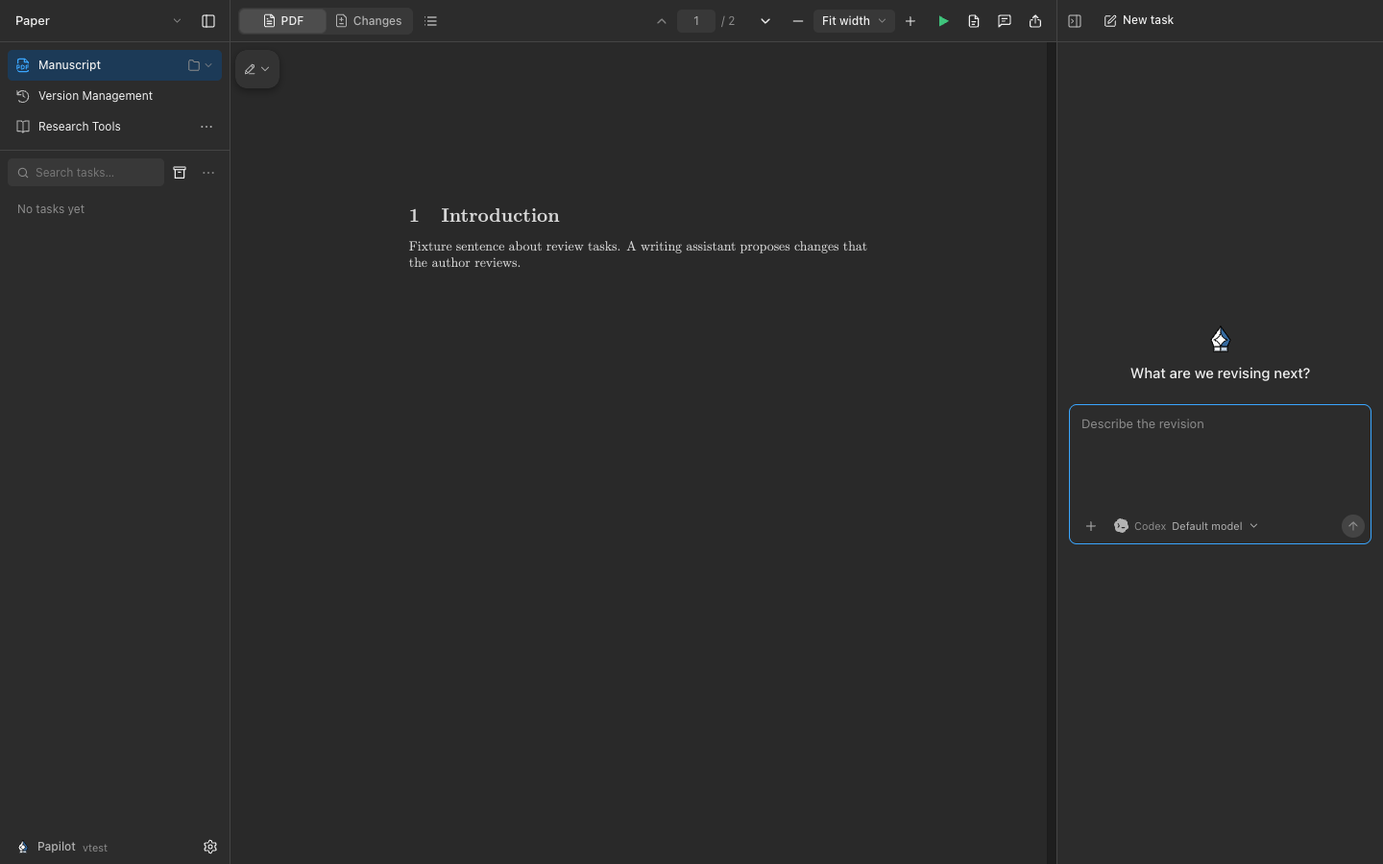
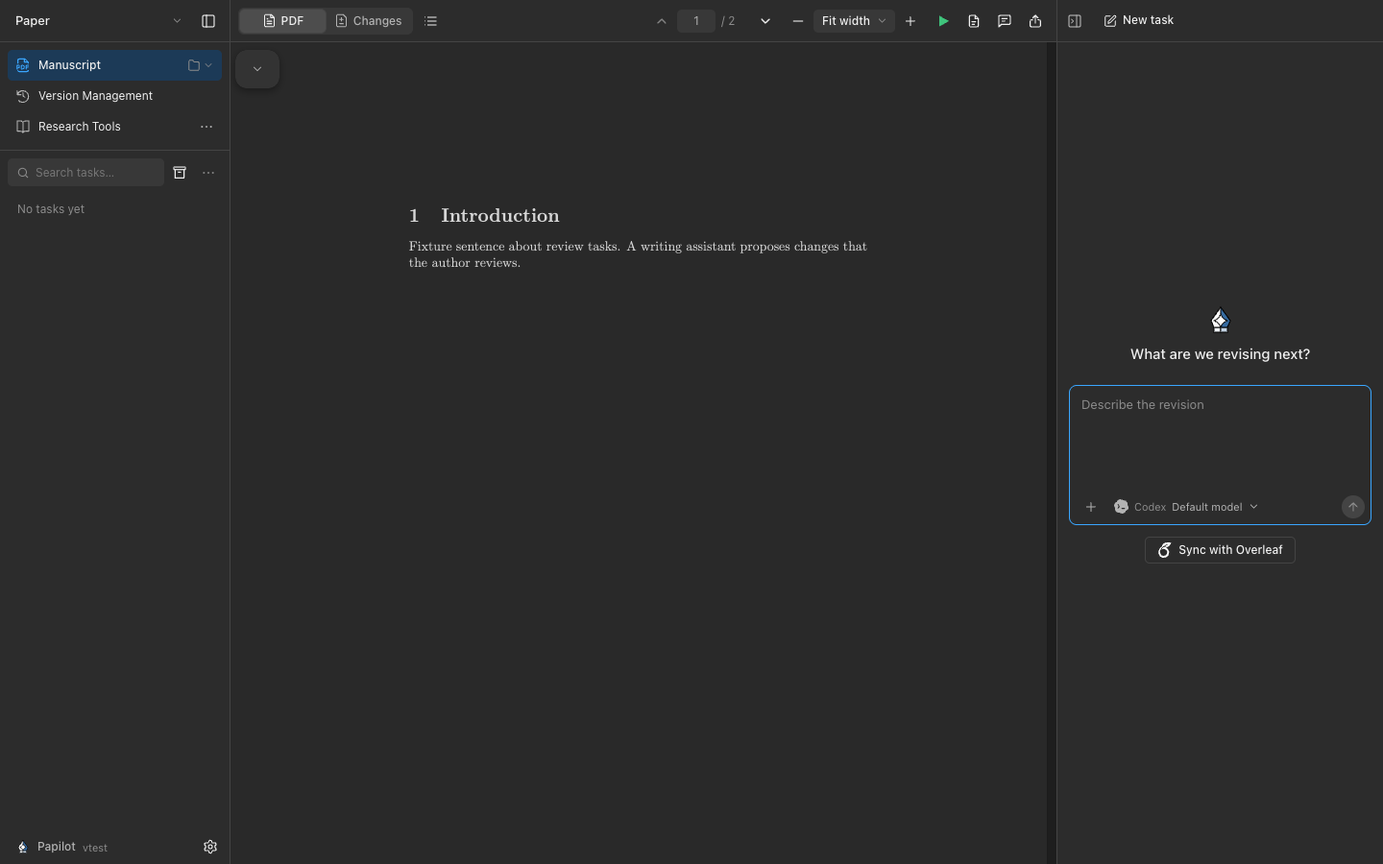
Expose Overleaf sync on the opening page

Changed region(s): [[0.7812, 0.56, 0.9375, 0.6533], [0.8125, 0.3422, 0.9375, 0.4356], [0.7812, 0.4667, 0.875, 0.4978]]

diff --git a/src/web/import-dialog.tsx b/src/web/import-dialog.tsx
@@ -11,7 +11,6 @@ import { OverleafSignIn, overleafOrigin } from './overleaf.tsx';
 import './import-dialog.css';
 
 type Api = <T = any>(route: string, body?: unknown, signal?: AbortSignal) => Promise<T>;
-const memoryKey = 'papilot:paper-import';
 const clock = (ms: number) => { const seconds = Math.max(0, Math.floor(ms / 1000)); return `${Math.floor(seconds / 60)}:${String(seconds % 60).padStart(2, '0')}`; };
 // What a long compilation is doing, so it never looks stuck: latexmk's step,
 // the LaTeX pass with the pages typeset in it, and the time since it started.
@@ -39,7 +38,9 @@ function BuildStatus({ draft }: { draft: PaperImport }) {
     </div>
   </div>;
 }
-export function ImportPanel({ api, agent, canRepair, onChooseFolder, onDone, onClose, onBusyChange }: { api: Api; agent: AgentId; canRepair: boolean; onChooseFolder?: () => Promise<void>; onDone: (project: Project) => Promise<void>; onClose: () => void; onBusyChange: (busy: boolean) => void }) {
+export function ImportPanel({ api, agent, canRepair, source, onChooseFolder, onDone, onClose, onBusyChange }: { api: Api; agent: AgentId; canRepair: boolean; source?: 'overleaf'; onChooseFolder?: () => Promise<void>; onDone: (project: Project) => Promise<void>; onClose: () => void; onBusyChange: (busy: boolean) => void }) {
+  const defaultMemoryKey = source === 'overleaf' ? 'papilot:overleaf-import' : 'papilot:paper-import';
+  const memoryKey = useRef(defaultMemoryKey);
   const dialog = useRef<HTMLDivElement>(null), folder = useRef<HTMLInputElement>(null), zip = useRef<HTMLInputElement>(null), pending = useRef(false);
   const linkInput = useRef<HTMLInputElement>(null), linkId = useId();
   const [link, setLink] = useState(''), [fromLink, setFromLink] = useState(false);
@@ -47,18 +48,20 @@ export function ImportPanel({ api, agent, canRepair, onChooseFolder, onDone, onC
   // wants only a copy; syncing needs the author's Overleaf sign-in.
   // A project or invitation link syncs by default; a read-only view link
   // makes a copy, which needs no sign-in.
-  const [keepSynced, setKeepSynced] = useState<boolean | null>(null), [signIn, setSignIn] = useState<string | null>(null);
+  const [keepSynced, setKeepSynced] = useState<boolean | null>(source === 'overleaf' ? true : null), [signIn, setSignIn] = useState<string | null>(null);
   const syncs = (url: string) => Boolean(overleafOrigin(url)) && (keepSynced ?? /\/project\/[a-f0-9]{24}/i.test(url));
   const overleafLink = Boolean(overleafOrigin(link));
   const [draft, setDraft] = useState<PaperImport | null>(null), [form, setForm] = useState({ name: '', path: '', main: '', engine: 'pdflatex' });
   const [busy, setBusy] = useState(false), [error, setError] = useState(''), [dragging, setDragging] = useState(false);
   const working = draft?.phase === 'building' || draft?.phase === 'repairing', locked = busy || working;
-  function receive(value: PaperImport) { setDraft(value); setForm(current => ({ ...current, name: value.name, main: value.main, engine: value.engine })); browserStorage.setItem(memoryKey, value.id); }
+  function receive(value: PaperImport) { setDraft(value); setForm(current => ({ ...current, name: value.name, main: value.main, engine: value.engine })); browserStorage.setItem(memoryKey.current, value.id); }
+  function forgetDraft() { browserStorage.removeItem(memoryKey.current); memoryKey.current = defaultMemoryKey; }
   useEffect(() => {
     folder.current?.setAttribute('webkitdirectory', '');
-    const saved = browserStorage.getItem(memoryKey);
+    if (source !== 'overleaf' && !browserStorage.getItem(memoryKey.current) && browserStorage.getItem('papilot:overleaf-import')) memoryKey.current = 'papilot:overleaf-import';
+    const saved = browserStorage.getItem(memoryKey.current);
     let live = true;
-    if (saved) { setBusy(true); api<PaperImport>('/imports/' + saved).then(value => { if (live) receive(value); }, () => browserStorage.removeItem(memoryKey)).finally(() => { if (live) setBusy(false); }); }
+    if (saved) { setBusy(true); api<PaperImport>('/imports/' + saved).then(value => { if (live) receive(value); }, () => { if (live) forgetDraft(); }).finally(() => { if (live) setBusy(false); }); }
     return () => { live = false; };
   }, []);
   useEffect(() => { onBusyChange(busy); }, [busy, onBusyChange]);
@@ -94,6 +97,7 @@ export function ImportPanel({ api, agent, canRepair, onChooseFolder, onDone, onC
   const upload = (list: File[], archive: boolean) => run(() => uploadFiles(list.map(file => ({ file, path: file.webkitRelativePath || file.name })), archive));
   const openFolder = async (path: string) => start(await api<PaperImport>('/imports', { path }));
   const importLink = (url: string) => run(async () => {
+    if (source === 'overleaf' && !overleafOrigin(url)) throw new Error(t('Paste the link of an Overleaf project.'));
     const sync = syncs(url);
     setSignIn(null);
     try { await start(await api<PaperImport>('/imports', { url: url.trim(), ...(sync ? { sync: true } : {}) })); }
@@ -118,7 +122,7 @@ export function ImportPanel({ api, agent, canRepair, onChooseFolder, onDone, onC
     });
   }
   const build = (repair = false) => run(async () => receive(await api<PaperImport>(`/imports/${draft!.id}/${repair ? 'repair' : 'build'}`, { name: form.name, main: form.main, engine: form.engine, agent })));
-  const finish = () => run(async () => { const project = await api<Project>(`/imports/${draft!.id}/finish`, {}); browserStorage.removeItem(memoryKey); await onDone(project); });
+  const finish = () => run(async () => { const project = await api<Project>(`/imports/${draft!.id}/finish`, {}); forgetDraft(); await onDone(project); });
   const failure = draft?.error || '';
   const preparationFailure = /ENOBUFS|ERR_CHILD_PROCESS_STDIO_MAXBUFFER|Git snapshot export/i.test(failure);
   const hint = preparationFailure ? t('Papilot could not prepare the files for compilation. This is an application error, not a LaTeX error.')
@@ -136,29 +140,29 @@ export function ImportPanel({ api, agent, canRepair, onChooseFolder, onDone, onC
   return <div ref={dialog} className="import-dialog">
       {!draft ? <>
         <section className="import-copy" aria-labelledby={linkId + '-copy'}>
-          <h3 id={linkId + '-copy'}>{t('Import a copy')}</h3>
-          <p>{t('Save a separate copy in Papilot. Your original files stay unchanged.')}</p>
+          <h3 id={linkId + '-copy'}>{source === 'overleaf' ? t('Overleaf') : t('Import a copy')}</h3>
+          {source !== 'overleaf' && <p>{t('Save a separate copy in Papilot. Your original files stay unchanged.')}</p>}
           <form className="import-path import-link" aria-labelledby={linkId + '-label'} onSubmit={event => { event.preventDefault(); void importLink(link); }}>
-            <label id={linkId + '-label'} htmlFor={linkId}>{t('Paper or repository link')}</label>
+            <label id={linkId + '-label'} htmlFor={linkId}>{source === 'overleaf' ? t('Paste the link of an Overleaf project.') : t('Paper or repository link')}</label>
             <div className="import-path-row">
-              <input ref={linkInput} id={linkId} name="url" type="url" inputMode="url" enterKeyHint="go" autoCapitalize="none" autoCorrect="off" spellCheck={false} value={link} required disabled={locked} maxLength={8000} aria-describedby={linkId + '-hint' + (fromLink && error ? ' ' + linkId + '-error' : '')} aria-invalid={fromLink && !!error || undefined} onChange={event => { setLink(event.target.value); if (fromLink) setError(''); }} placeholder={t('Paste a link…')}/>
+              <input ref={linkInput} id={linkId} name="url" type="url" inputMode="url" enterKeyHint="go" autoCapitalize="none" autoCorrect="off" spellCheck={false} value={link} required disabled={locked} maxLength={8000} aria-describedby={linkId + '-hint' + (fromLink && error ? ' ' + linkId + '-error' : '')} aria-invalid={fromLink && !!error || undefined} onChange={event => { setLink(event.target.value); if (fromLink) setError(''); }} placeholder={source === 'overleaf' ? 'https://www.overleaf.com/project/…' : t('Paste a link…')}/>
               <button type="submit" className="button primary compact" aria-label={t('Import link')} disabled={locked}><Icon name="arrowRight" size={15}/>{t('Import')}</button>
             </div>
-            <div className="import-link-hint" id={linkId + '-hint'}><span className="import-source"><BrandIcon name="arxiv" size={16}/><span>arXiv</span></span><span className="import-source"><BrandIcon name="overleaf" size={16}/><span>Overleaf</span></span><span className="import-source"><BrandIcon name="github" size={16}/><span>GitHub</span></span></div>
-            {overleafLink && <label className="import-sync"><input type="checkbox" role="switch" className="switch" checked={syncs(link)} disabled={locked} onChange={event => setKeepSynced(event.target.checked)}/><span>{t('Keep in sync with Overleaf')}</span></label>}
+            <div className="import-link-hint" id={linkId + '-hint'}>{source !== 'overleaf' && <span className="import-source"><BrandIcon name="arxiv" size={16}/><span>arXiv</span></span>}<span className="import-source"><BrandIcon name="overleaf" size={16}/><span>Overleaf</span></span>{source !== 'overleaf' && <span className="import-source"><BrandIcon name="github" size={16}/><span>GitHub</span></span>}</div>
+            {(overleafLink || source === 'overleaf') && <label className="import-sync"><input type="checkbox" role="switch" className="switch" checked={overleafLink ? syncs(link) : Boolean(keepSynced)} disabled={locked} onChange={event => setKeepSynced(event.target.checked)}/><span>{t('Keep in sync with Overleaf')}</span></label>}
           </form>
           {signIn && syncs(link) && <OverleafSignIn api={api} origin={signIn} onSignedIn={() => { setSignIn(null); void importLink(link); }}/>}
-          <div className={'import-drop' + (dragging ? ' dragging' : '')} onDragOver={event => { event.preventDefault(); setDragging(true); }} onDragLeave={event => { if (!event.currentTarget.contains(event.relatedTarget as Node | null)) setDragging(false); }} onDrop={event => { event.preventDefault(); setDragging(false); if (!locked) drop(event.dataTransfer); }}>
+          {source !== 'overleaf' && <div className={'import-drop' + (dragging ? ' dragging' : '')} onDragOver={event => { event.preventDefault(); setDragging(true); }} onDragLeave={event => { if (!event.currentTarget.contains(event.relatedTarget as Node | null)) setDragging(false); }} onDrop={event => { event.preventDefault(); setDragging(false); if (!locked) drop(event.dataTransfer); }}>
             <span className="import-drop-hint"><Icon name="folder" size={15}/>{t('Drop a source ZIP or folder')}</span>
             <div className="import-options">
               <button type="button" className="button secondary compact" aria-label={t('Import ZIP')} disabled={locked} onClick={() => zip.current?.click()}><Icon name="archive" size={15}/>{t('Import ZIP')}</button>
               <button type="button" className="button secondary compact" disabled={locked} onClick={() => folder.current?.click()}><Icon name="folder" size={15}/>{t('Import folder')}</button>
             </div>
-          </div>
+          </div>}
           <input hidden {...{ webkitdirectory: '' }} ref={folder} type="file" multiple aria-label={t('Choose folder')} onChange={event => { void upload(Array.from(event.target.files || []), false); event.target.value = ''; }}/>
           <input hidden ref={zip} type="file" accept=".zip,application/zip" aria-label={t('Import ZIP')} onChange={event => { void upload(Array.from(event.target.files || []), true); event.target.value = ''; }}/>
         </section>
-        <section className="import-original" aria-labelledby={linkId + '-original'}>
+        {source !== 'overleaf' && <section className="import-original" aria-labelledby={linkId + '-original'}>
           <h3 id={linkId + '-original'}>{t('Open existing folder')}</h3>
           <p id={linkId + '-original-hint'}>{t('Work in the original folder. Changes are saved directly to your files.')}</p>
           {onChooseFolder ? <button type="button" data-choose-folder className="button secondary compact" aria-describedby={linkId + '-original-hint'} disabled={locked} onClick={() => void chooseFolder()}><Icon name="folder" size={15}/>{t('Choose folder…')}</button>
@@ -168,7 +172,7 @@ export function ImportPanel({ api, agent, canRepair, onChooseFolder, onDone, onC
                 <button type="submit" className={'button compact ' + (form.path.trim() ? 'primary' : 'secondary')} disabled={locked}>{t('Open')}</button>
               </FolderField>
             </form>}
-        </section>
+        </section>}
         {busy && <p className="import-reading" role="status"><span className="spinner"/>{fromLink ? t('Downloading paper source…') : t('Reading paper files…')}</p>}
         {error && <p id={linkId + '-error'} className="inline-error" role="alert">{error}</p>}
       </> : <>
@@ -183,7 +187,7 @@ export function ImportPanel({ api, agent, canRepair, onChooseFolder, onDone, onC
             <span className="import-location-label">{t('Saved folder')}</span>
             <code className="import-location-path"><span className="paper-location-parent">{draft.path.slice(0, folderAt)}</span><span className="paper-location-name">{draft.path.slice(folderAt)}</span></code>
           </div>
-          {!working && <button type="button" className="button ghost compact" disabled={busy} onClick={() => { browserStorage.removeItem(memoryKey); setDraft(null); setError(''); }}>{t('Choose different files')}</button>}
+          {!working && <button type="button" className="button ghost compact" disabled={busy} onClick={() => { forgetDraft(); setDraft(null); setError(''); }}>{t('Choose different files')}</button>}
         </div>
         <form onSubmit={event => { event.preventDefault(); void build(); }}>
           <label>{t('Paper name')}<input required maxLength={120} value={form.name} disabled={locked} onChange={event => setForm({ ...form, name: event.target.value })}/></label>

diff --git a/src/web/main.tsx b/src/web/main.tsx
@@ -39,6 +39,7 @@ import { BulkTaskDialog, type BulkTaskAction } from './bulk-task-dialog.tsx';
 import { restartDraftText } from './restart-draft.ts';
 import { ActionMenu } from './action-menu.tsx';
 import { Icon } from './icons.tsx';
+import { BrandIcon } from './brand-icon.tsx';
 import { toolIcon, toolNote, toolSentence, toolSummary } from './tool-calls.ts';
 import { ContextMeter } from './context-meter.tsx';
 import { ChangeSummary, FileDiffs } from './file-changes.tsx';
@@ -1187,7 +1188,7 @@ function App() {
   const sidebarRef = useRef<HTMLElement>(null);
   const [deleteTarget, setDeleteTarget] = useState<Task | null>(null);
   const [bulkTarget, setBulkTarget] = useState<BulkTaskAction | null>(null);
-  const [modal, setModal] = useState<'project' | 'create' | null>(null);
+  const [modal, setModal] = useState<'project' | 'create' | 'overleaf' | null>(null);
   const [createPreset, setCreatePreset] = useState<{ id: string; version: string } | null>(null);
   const [openingFolder, setOpeningFolder] = useState(false), [mainChoice, setMainChoice] = useState<{ path: string; name: string; candidates: string[] } | null>(null);
   const folderRequest = useRef(false);
@@ -1484,6 +1485,7 @@ function App() {
   // open the original folder in place through the system picker.
   function createProject() { if (isPlayground) { requestPlaygroundDownload(); return; } setCreatePreset(null); setModal('create'); }
   function importProject() { if (isPlayground) { requestPlaygroundDownload(); return; } setCreatePreset(null); setModal('project'); }
+  function syncOverleaf() { if (project) setOverleafOpen(true); else { setCreatePreset(null); setModal('overleaf'); } }
   async function openFolder(folder?: string, main?: string) {
     if (folderRequest.current) return;
     folderRequest.current = true;
@@ -2117,6 +2119,7 @@ function App() {
         </div>
     {manuscriptView === 'pdf' && <div className="workspace-nav-end">{manuscriptTools}{manuscriptShare}</div>}
   </>;
+  const overleafEntry = !isPlayground && gitAvailable && <button type="button" className="button secondary" onClick={syncOverleaf}><BrandIcon name="overleaf" size={16}/>{overleafSync ? t('Overleaf sync…') : t('Sync with Overleaf')}</button>;
   const newTaskPanel = (attachments: React.ReactNode) => <section className={'new-task-panel' + (noteSelection.selected.length ? ' has-notes' : '')} aria-label={t('New task')}>
     <div className="new-task-start">
     {!noteSelection.selected.length && <div className="new-task-welcome"><img src={logo} alt=""/><h2>{t('What are we revising next?')}</h2></div>}
@@ -2131,6 +2134,7 @@ function App() {
       </div>}
       action={<button className="send-button" type="submit" aria-label={t('Start task')} title={missingGroupDirections ? t('Add instructions to the selected color groups above.') : t('Start task (Enter)')} disabled={missingAgent || creating || reviewNoteBusy || noteEditing || history.busy || (newSkill?.output !== 'annotations' && (newFiles.blocked || marking > 0 || missingGroupDirections)) || (!newDraft.trim() && !newSkill && !newFiles.files.length && !noteSelection.selected.some(actionable) && !Object.keys(groupDirections).length)} aria-busy={creating}>{creating ? <span className="spinner light"/> : <Icon name="arrowUp" size={18}/>}</button>}/>
     {createError && <p className="inline-error" role="alert">{createError}</p>}
+    {!noteSelection.selected.length && overleafEntry && <div className="home-integrations">{overleafEntry}</div>}
     {PlaygroundPresets && <Suspense fallback={null}><PlaygroundPresets selected={noteSelection.selected} open={id => openPreparedTask(id)} disabled={creating}/></Suspense>}
     {runtimes[agentChoice]?.usage && <UsageSummary agent={agentLabel(agentChoice)} usage={runtimes[agentChoice]!.usage!}/>}
     </div>
@@ -2231,7 +2235,7 @@ function App() {
           <ReferencesPanel key={project.id} place={'references:' + project.id} data={bibliography} onInvestigate={draftInvestigation}/>
         </section>
       : !state ? <div className="home"><div className="home-inner"><div className="home-mark"><span className="spinner"/></div><h1>{t('Opening your workspace')}</h1><p className="home-copy" role="status">{connectionError || t('Connecting to your papers and tasks…')}</p>{connectionError && <button className="button secondary" onClick={() => void refresh(true)}>{t('Retry connection')}</button>}</div></div>
-      : <div className="home"><div className="home-inner"><img className="home-logo" src={logo} alt=""/><h1>{t('Add your first paper')}</h1><div className="home-paper-actions"><button className="button primary" onClick={createProject}><Icon name="plus" size={16}/>{t('New paper')}</button><button className="button secondary" onClick={importProject}><Icon name="download" size={16}/>{t('Import or open')}</button></div></div></div>}
+      : <div className="home"><div className="home-inner"><img className="home-logo" src={logo} alt=""/><h1>{t('Add your first paper')}</h1><div className="home-paper-actions"><button className="button primary" onClick={createProject}><Icon name="plus" size={16}/>{t('New paper')}</button><button className="button secondary" onClick={importProject}><Icon name="download" size={16}/>{t('Import or open')}</button></div>{overleafEntry && <div className="home-integrations">{overleafEntry}</div>}</div></div>}
     </main>
     {error && !modal && <div role="alert" className="toast"><Icon name="alert" size={16}/><span>{error}</span><button className="icon-button" aria-label={t('Dismiss error')} onClick={() => setError('')}><Icon name="close" size={14}/></button></div>}
     {settings && <SettingsDialog workflow={isPlayground ? undefined : { enabled: runtimes.collaboration?.hidden === false, online, runtimes, load: () => api<CollaborationSettingsState>('/collaboration'), save: async change => { const result = await api<CollaborationSettingsState>('/collaboration', change); await refresh(true); return result; } }} requirements={isPlayground ? undefined : { state: requirements, online }} modelDefaults={{ agents: offered.map(id => ({ value: id, label: agentLabel(id), runtime: runtimes[id] })), agent: agentChoice, model: chosenModel, effort: agent.effort, onSelect: chooseModel, onEffort: effort => remember({ effort }) }} updates={!isPlayground ? api : undefined} overleaf={!isPlayground ? { api, state: state?.overleaf } : undefined} initialPage={settings} theme={theme.theme} onTheme={theme.setTheme} resolved={theme.resolved} appearance={theme.appearance} onAppearance={theme.setAppearance} onClose={() => setSettings(false)} diagnostics={!isPlayground ? { online, runtimes, project, check: checkDiagnostics, latex: detectLatexInstallation, reconnect: async () => { await api('/reconnect', {}); await refresh(true); }, writer: (route: string, body?: unknown) => api('/writer' + route, body) } : undefined} skills={!isPlayground ? { project, api, onChanged: () => setSkillsRevision(value => value + 1) } : undefined}/>}
@@ -2258,7 +2262,7 @@ function App() {
     }}/>}
     {mainChoice && <MainFileDialog key={mainChoice.path} name={mainChoice.name} candidates={mainChoice.candidates} open={main => openFolder(mainChoice.path, main)} onClose={() => setMainChoice(null)}/>}
     {openingFolder && !mainChoice && <div role="status" className="toast toast-status"><span className="spinner"/><span>{t('Reading paper files…')}</span></div>}
-    {(modal === 'create' || modal === 'project') && <NewPaperDialog key={createPreset ? createPreset.id + '@' + createPreset.version : 'new'} initialTab={modal === 'project' ? 'import' : 'blank'} preset={createPreset ?? undefined} api={api} agent={agentChoice} canRepair={Object.values(runtimes).some(runtime => runtime?.connected && runtime.authenticated)} onChooseFolder={nativeFolders ? async () => { const path = await chooseDirectory(); if (path) await openFolder(path); } : undefined} onClose={() => { setModal(null); setCreatePreset(null); }} onDone={async paper => {
+    {modal && <NewPaperDialog key={createPreset ? createPreset.id + '@' + createPreset.version : 'new'} initialTab={modal === 'create' ? 'blank' : 'import'} source={modal === 'overleaf' ? 'overleaf' : undefined} preset={createPreset ?? undefined} api={api} agent={agentChoice} canRepair={Object.values(runtimes).some(runtime => runtime?.connected && runtime.authenticated)} onChooseFolder={nativeFolders ? async () => { const path = await chooseDirectory(); if (path) await openFolder(path); } : undefined} onClose={() => { setModal(null); setCreatePreset(null); }} onDone={async paper => {
       setCreatePreset(null);
       await refresh(true);
       setProjectId(paper.id); setSelected(''); setPage('manuscript'); setManuscriptView('pdf'); setModal(null); setSidebar(false);

diff --git a/src/web/style.css b/src/web/style.css
@@ -658,6 +658,7 @@ body.resizing iframe{pointer-events:none}
 .home-mark{display:flex;align-items:center;justify-content:center;width:44px;height:44px;margin-bottom:16px}
 .home h1{font:500 24px/1.25 var(--sans);letter-spacing:0;margin:0 0 20px;text-wrap:balance}
 .home-copy{font-size:13px;line-height:1.65;color:var(--text-2);max-width:480px;margin:-12px 0 22px}
+.home-integrations{display:flex;align-items:center;justify-content:center;flex-wrap:wrap;gap:8px;margin-top:12px}
 
 /* Manuscript preview, new tasks, notes and Git status */
 .manuscript{position:relative;flex:1;min-height:0;display:grid;--manuscript-width:340px;--manuscript-side-width:clamp(300px,var(--manuscript-width),calc(100% - 360px));grid-template-columns:minmax(0,1fr) var(--manuscript-side-width)}
@@ -699,6 +700,7 @@ body.resizing iframe{pointer-events:none}
 .new-task-panel .composer-options{flex:1;flex-wrap:nowrap;align-items:center}
 .new-task-panel .skill-menu{top:auto;bottom:calc(100% + 6px);max-height:min(280px,32dvh)}
 .new-task-start>.inline-error{margin:0;font-size:12px}
+.new-task-start>.home-integrations{margin-top:4px}
 .new-task-panel.has-notes{overflow:hidden}
 .new-task-panel.has-notes .new-task-start{flex:1;min-height:0;margin:0;padding:0}
 .new-task-panel.has-notes .composer textarea{min-height:80px;max-height:min(160px,24dvh)}

diff --git a/src/web/new-paper-dialog.tsx b/src/web/new-paper-dialog.tsx
@@ -44,7 +44,7 @@ export function NewPaperDialog({ initialTab = 'blank', preset, onClose, ...props
   return <dialog ref={dialog} className="modal-backdrop new-paper-backdrop" aria-labelledby={id + '-title'} onCancel={event => { if (event.target !== event.currentTarget) return; event.preventDefault(); close(); }} onClick={event => { if (event.target === event.currentTarget) close(); }}>
     <section className="modal new-paper-dialog">
       <button type="button" className="modal-close icon-button" aria-label={t('Close')} disabled={busy} onClick={close}><Icon name="close"/></button>
-      <h2 id={id + '-title'}>{t('New paper')}</h2>
+      <h2 id={id + '-title'}>{props.source === 'overleaf' && tab === 'import' ? t('Sync with Overleaf') : t('New paper')}</h2>
       <div className="new-paper-tabs" role="tablist" aria-label={t('Paper source')} onKeyDown={event => {
         if (busy || !['ArrowLeft', 'ArrowRight', 'Home', 'End'].includes(event.key)) return;
         const buttons = Array.from(event.currentTarget.querySelectorAll<HTMLButtonElement>('[role="tab"]'));

diff --git a/src/web/pdf-tools.css b/src/web/pdf-tools.css
@@ -20,7 +20,7 @@
 /* On desktop the rail is itself a white floating bar, 46px wide with 5px of
    canvas on either side, so the slot the review frame measures for the page's
    margin stays 56px. The collapse button stays at the top when the tools
-   fold away, leaving a floating pen button at the same location. */
+   fold away, leaving a floating expand button at the same location. */
 @media (min-width:681px){
   .pdf-rail{flex-direction:column;align-items:center;align-self:flex-start;gap:2px;width:46px;max-height:calc(100% - 16px);margin:8px 5px;padding:6px 0;border-radius:12px;background:var(--raised);box-shadow:var(--shadow-sm)}
   .rail-items{flex:0 1 auto;width:100%}

diff --git a/src/web/pdf-tool-rail.tsx b/src/web/pdf-tool-rail.tsx
@@ -126,7 +126,6 @@ export function PdfToolRail({ tool, onTool, group, onGroup, disabled, suspended,
       <button type="button" className="rail-tool rail-toggle" aria-expanded={!collapsed} aria-controls={railId}
         aria-label={collapsed ? t('Expand marking tools') : t('Collapse marking tools')} title={collapsed ? t('Expand marking tools') : t('Collapse marking tools')}
         onClick={() => toggleCollapse()}>
-        {collapsed && <Icon name="toolNote" size={14}/>}
         <Icon name={collapsed === mobile ? 'chevronUp' : 'chevronDown'} size={14}/>
       </button>
       <div id={railId} className="rail-items" hidden={collapsed}>

diff --git a/CHANGELOG.md b/CHANGELOG.md
@@ -31,8 +31,9 @@ Notable changes to Papilot, newest first. The format follows [Keep a Changelog](
 - Mark a task's PDF before it has a review: until the agent's changes are ready, the task view offers every marking tool, and the marks go to the agent with the next follow-up, like comments. **Accept all** and **Reject all** are separate action buttons beside the view switches. The gallery's **Example project** shows its first page. **Open review in new tab** is gone; the review stays in the workspace. **Share** moved into the PDF toolbar, and **Remove all from task** is a text button beside the panel's tabs, one row higher; the tab shows how many notes the task has as a badge.
 - Selecting text in **Changes** works as it does in the PDF: a drag can cross lines and blank space without jumping to the end of the passage, a double-click selects a word and a triple-click a line, and the selection reads as one band per line.
 - Simplify PDF reading controls: remove back/forward history buttons and their separator, align the outline bookmark, anchor numbers and **+** in one compact column, and show a corner delete button on hover or keyboard focus. Phones also show **+** for direct anchor creation. Deletion keeps the current reading position and moves keyboard focus to the next anchor or **+**. Contents, page controls and internal links remain available.
-- Keep the PDF toolbar's collapse control at the top. Collapsing leaves a floating pen button in the same place to reopen it, clear of review headings and change controls. Research Tools uses a book icon.
+- Keep the PDF toolbar's collapse control at the top. Collapsing leaves a single floating arrow in the same place to reopen it, clear of review headings and change controls. Research Tools uses a book icon.
 - Highlight newly sent tasks with a soft row background, removing the left accent stripe and flashing outline.
+- Show **Sync with Overleaf** with its logo on the opening page’s second action row and below the new-task composer. The opening-page shortcut imports an Overleaf project with syncing enabled.
 
 - Show common AI conference templates before theses, with conference cards, compact search and a GitHub **Contribute** link. Retry catalog failures without losing a draft; **Blank** stays available, and late template links respect an explicit choice.
 - Simplify the PDF toolbars with one separator before Undo and Redo, keeping the other tools together.
